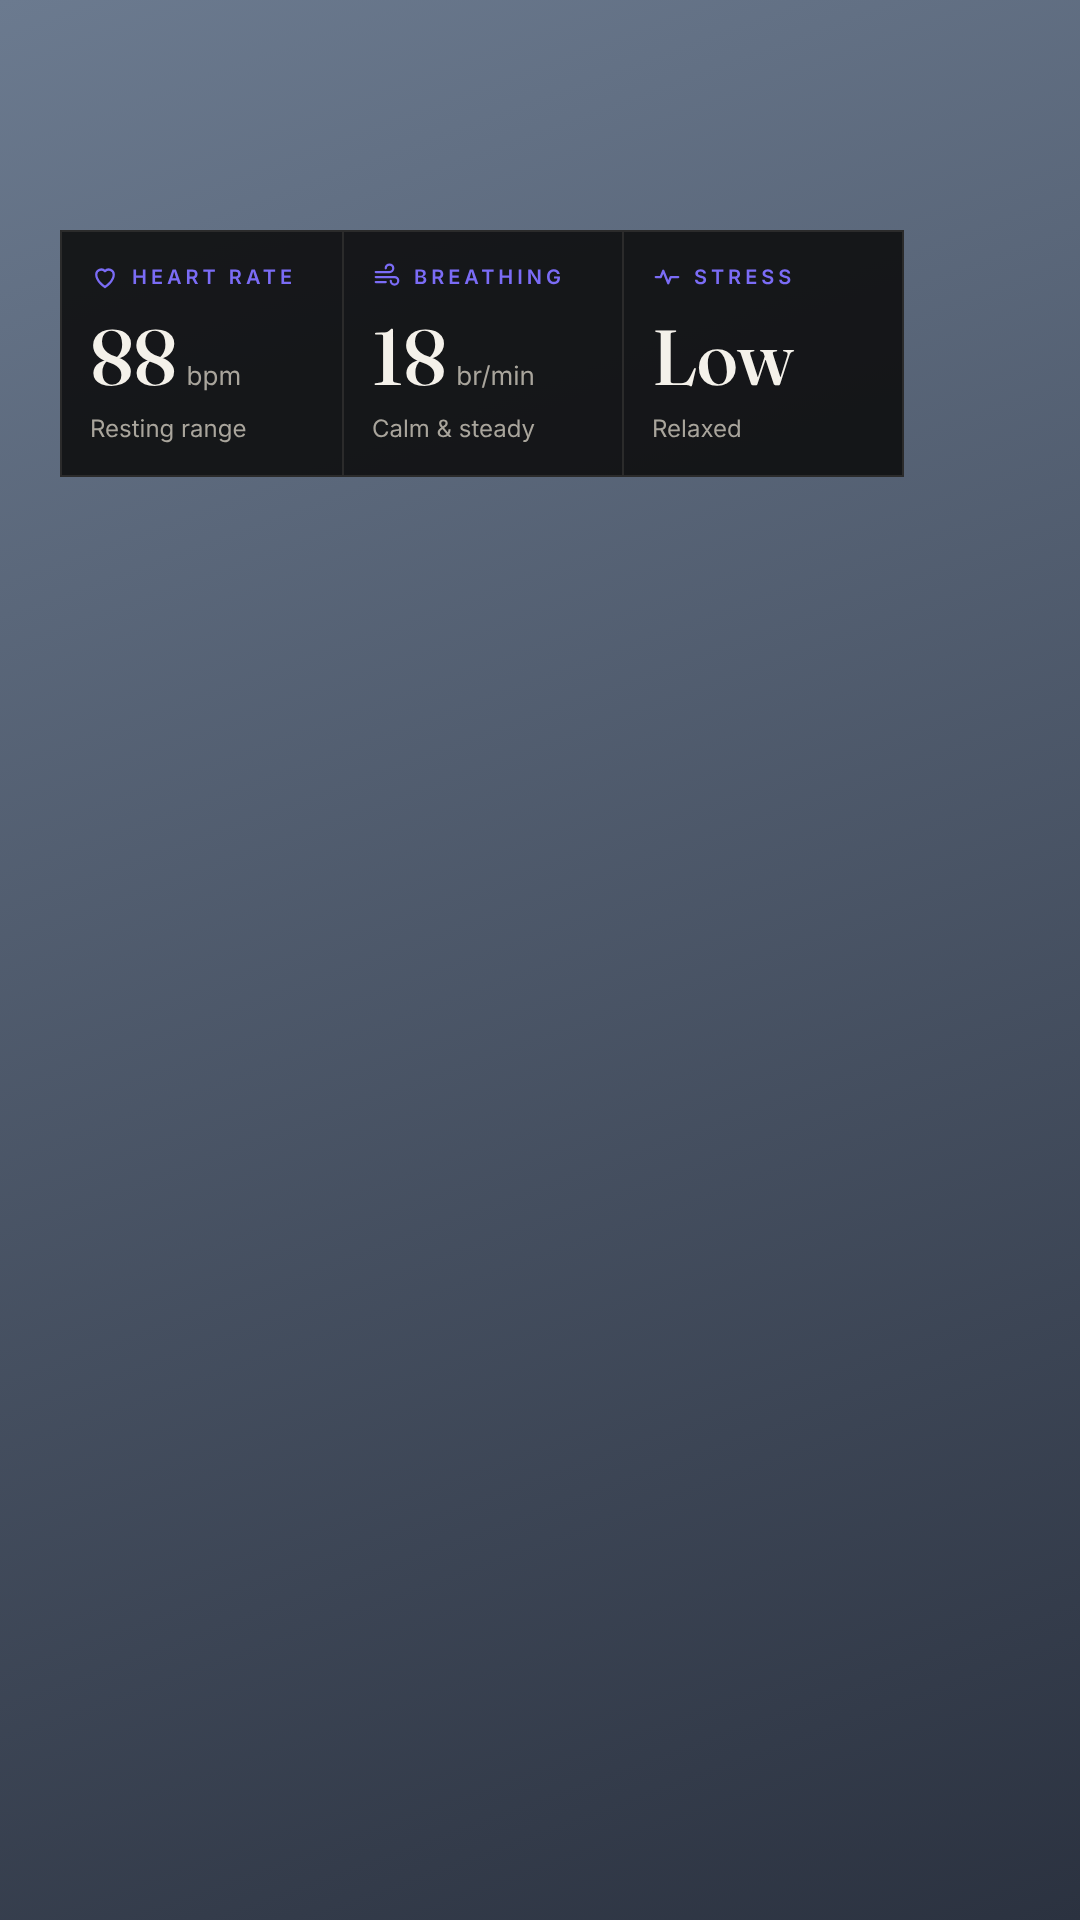
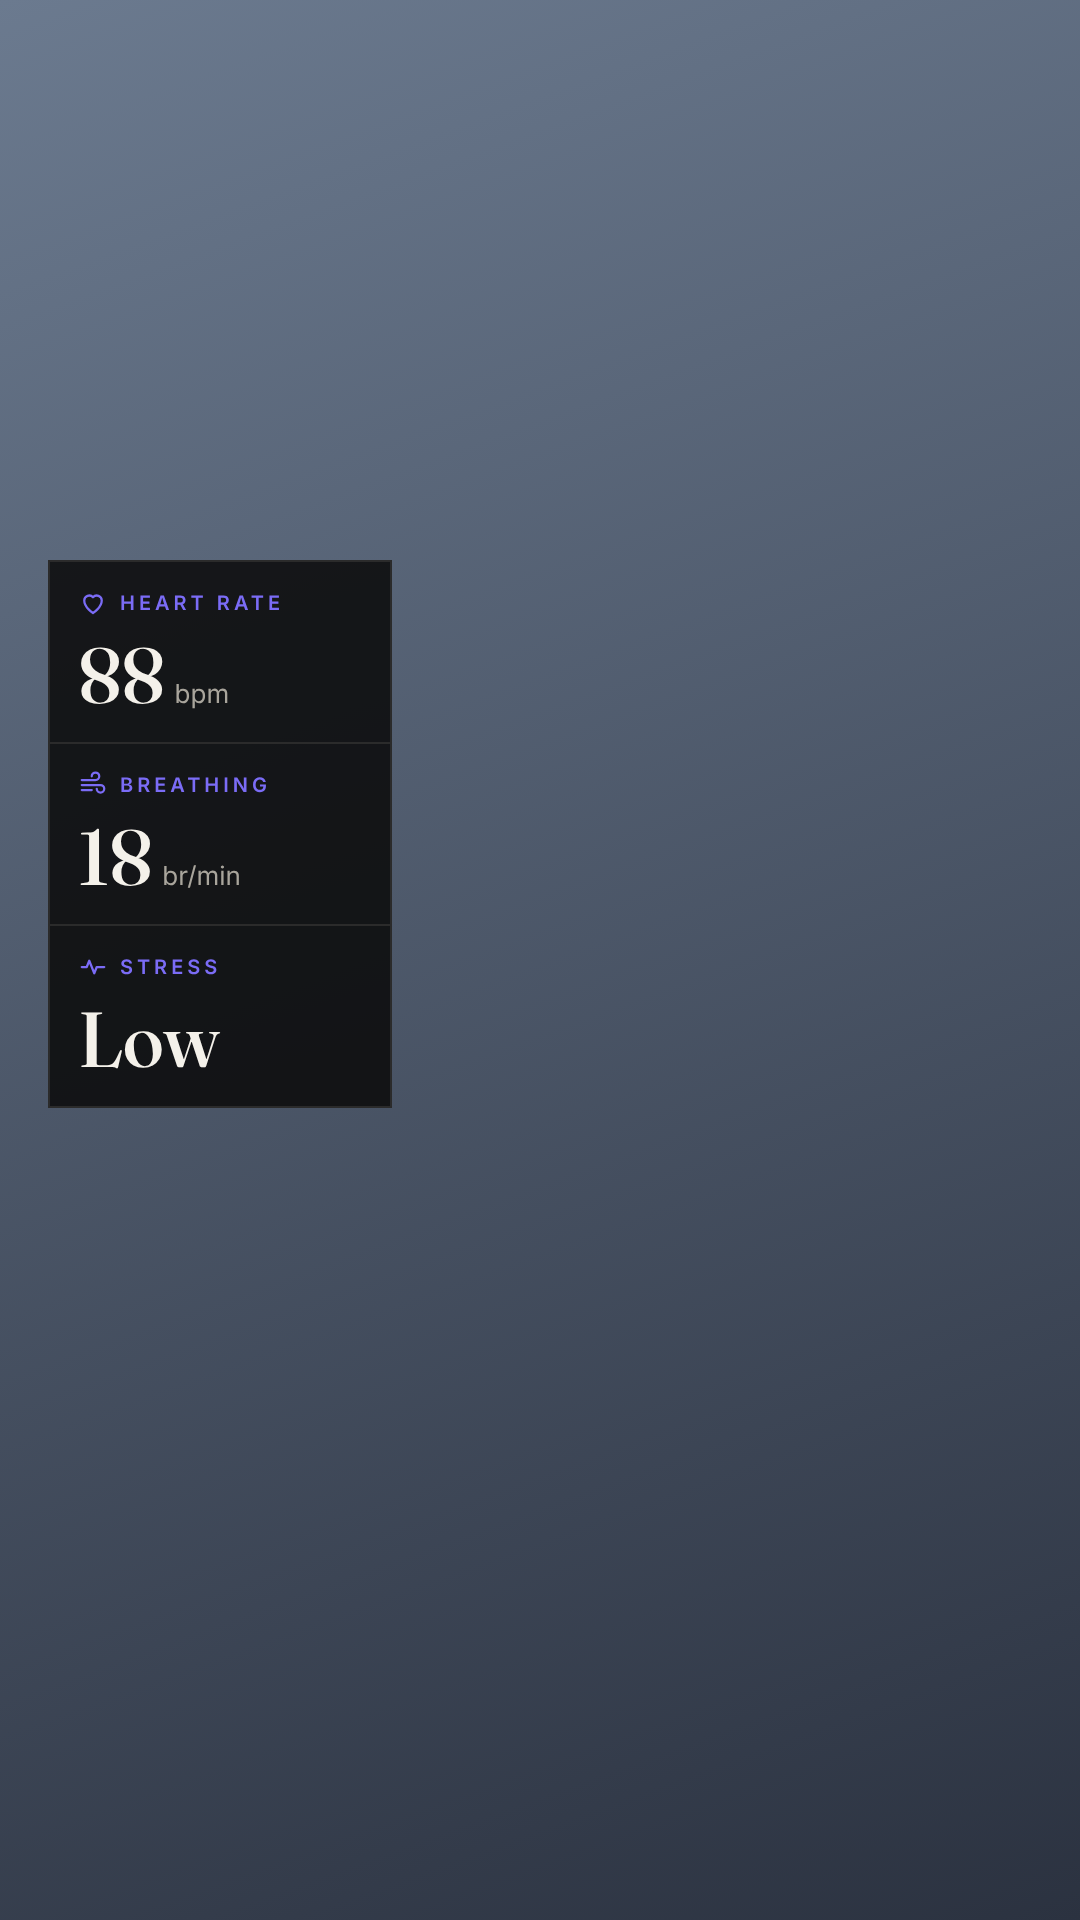
Stack PetPace overlay tiles in a left-side column, drop status lines
Claude-Session: https://claude.ai/code/session_01AJ1B8XtQzRVxMu9ZFn4sA4

Changed region(s): [[0.0306, 0.0938, 0.8556, 0.25], [0.0306, 0.2812, 0.3667, 0.5938]]

diff --git a/petpace-overlay/overlay.html b/petpace-overlay/overlay.html
@@ -15,18 +15,17 @@
   html, body { margin: 0; width: 1080px; height: 1920px; background: transparent; overflow: hidden; }
   body.preview { background: linear-gradient(160deg, #6b7a8f, #2b3240); }
   #grid {
-    position: absolute; left: 60px; top: 230px; width: 840px;
-    display: grid; grid-template-columns: repeat(3, 1fr);
+    position: absolute; left: 48px; top: 560px; width: 340px;
+    display: grid; grid-template-columns: 1fr;
     background: var(--bg); border: 2px solid var(--line);
     font-family: Inter, system-ui, sans-serif; color: var(--text);
   }
-  .tile { padding: 30px 28px 32px; border-left: 2px solid var(--line); }
-  .tile:first-child { border-left: 0; }
+  .tile { padding: 26px 28px 28px; border-top: 2px solid var(--line); }
+  .tile:first-child { border-top: 0; }
   .label { display: flex; align-items: center; gap: 12px; color: var(--accent); font-weight: 600; font-size: 20px; letter-spacing: 0.2em; }
   .label svg { width: 30px; height: 30px; flex: none; }
-  .num { margin-top: 26px; font-family: Fraunces, Georgia, serif; font-weight: 500; font-size: 78px; line-height: 1; }
+  .num { margin-top: 18px; font-family: Fraunces, Georgia, serif; font-weight: 500; font-size: 78px; line-height: 1; }
   .unit { font-family: Inter, sans-serif; font-size: 26px; color: var(--muted); margin-left: 10px; }
-  .sub { margin-top: 18px; font-size: 24px; color: var(--muted); }
   #heart { transform-origin: center; }
 </style>
 </head>
@@ -38,7 +37,6 @@
       HEART RATE
     </div>
     <div class="num"><span id="hr">--</span><span class="unit">bpm</span></div>
-    <div class="sub" id="hrSub">Resting range</div>
   </div>
   <div class="tile">
     <div class="label">
@@ -46,7 +44,6 @@
       BREATHING
     </div>
     <div class="num"><span id="br">--</span><span class="unit">br/min</span></div>
-    <div class="sub" id="brSub">Calm &amp; steady</div>
   </div>
   <div class="tile">
     <div class="label">
@@ -54,7 +51,6 @@
       STRESS
     </div>
     <div class="num"><span id="st">--</span></div>
-    <div class="sub" id="stSub">Relaxed</div>
   </div>
 </div>
 
@@ -97,9 +93,6 @@ function render(t) {
   document.getElementById('hr').textContent = Math.round(v.hr);
   document.getElementById('br').textContent = Math.round(v.br);
   document.getElementById('st').textContent = band(v.stress, 35, 65, ['Low', 'Medium', 'High']);
-  document.getElementById('hrSub').textContent = band(v.hr, 100, 130, ['Resting range', 'Elevated', 'Racing']);
-  document.getElementById('brSub').textContent = band(v.br, 22, 30, ['Calm & steady', 'Picking up', 'Fast']);
-  document.getElementById('stSub').textContent = band(v.stress, 35, 65, ['Relaxed', 'Alert', 'Stressed']);
   const b = beatPhase(t);
   document.getElementById('heart').style.transform = `scale(${1 + 0.18 * Math.exp(-b * 9)})`;
 }
